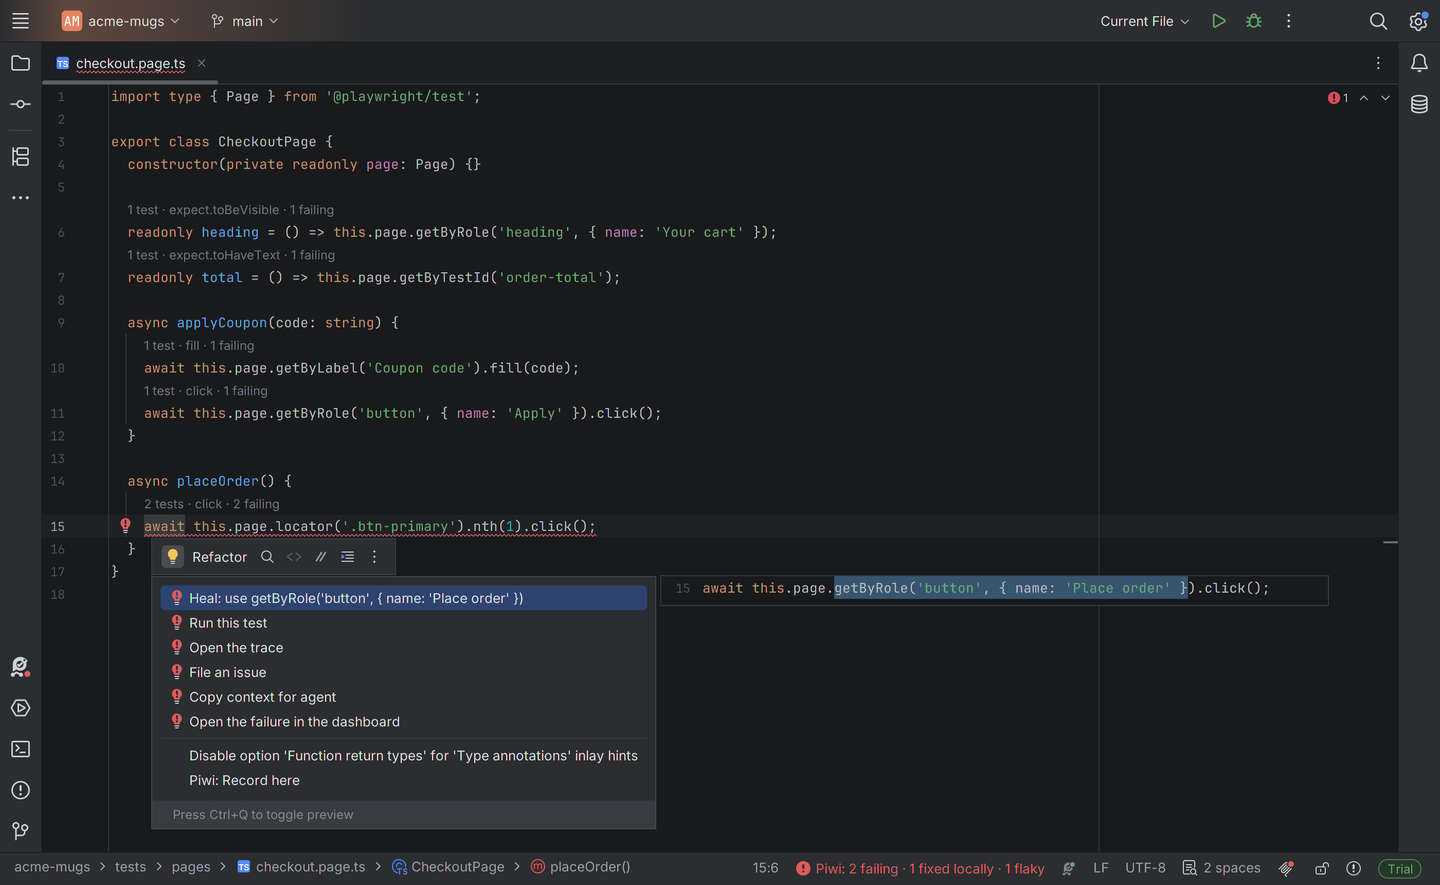
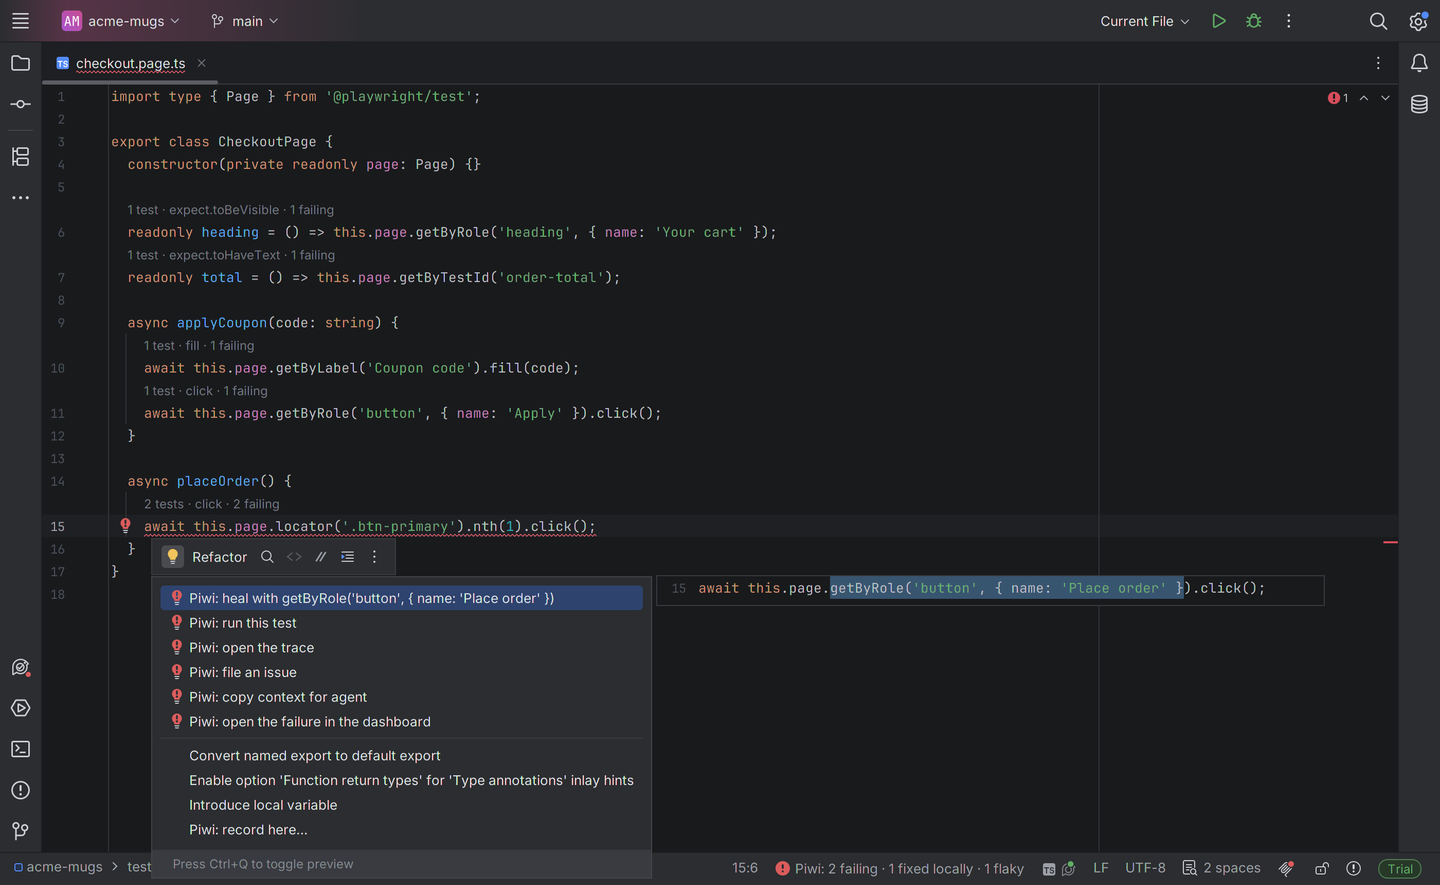
docs(docs): correct the generated reference pages against the code (#1428)
- Registry descriptions corrected against the code: PIWI_RETENTION_REPORT_DAYS, PIWI_AUTO_MARKERS (and the timeline markers page), PIWI_TEST_LOGS_DISABLED, the ingest limits' relation to the AI limits, PIWI_SITE_URL, PIWI_IMPORT_MAX_BYTES, triage_gap, Bitbucket Cloud's source control, Import past runs, maxStreamBufferBytes.
- "Reports page" reads "Quality reports page" in the schedule copy, the API reference and the docs.
- jetbrains-heal.png shows the quick fixes' current names; the JetBrains screenshot script keeps the downloaded IDE's Node services CommonJS.

Closes #1420.

Claude-Session: https://claude.ai/code/session_01ADXAbfaBY74DfSZAxSi1dN

diff --git a/apps/application/shared/piwi-env-vars.ts b/apps/application/shared/piwi-env-vars.ts
@@ -222,7 +222,7 @@ export const PIWI_ENV_CATEGORIES: Record<PiwiEnvVarCategory, PiwiEnvVarCategoryM
     title: 'Ingest limits',
     order: 9,
     intro:
-      'Caps applied to per-execution payloads (console output, steps, ARIA snapshots, error text, source snippets) before they are stored. They bound database growth against verbose or hostile submitters; values above each limit are truncated with a visible marker. Distinct from the `PIWI_AI_MAX_*` limits, which bound what enters an AI diagnosis prompt — the storage defaults sit at or above the AI maxima so the AI limits stay the binding constraint for prompts. Environment-only (no settings UI).',
+      'Caps applied to per-execution payloads (console output, steps, ARIA snapshots, error text, source snippets) before they are stored. They bound database growth against verbose or hostile submitters; values above each limit are truncated with a visible marker. Distinct from the `PIWI_AI_MAX_*` limits, which bound what enters an AI diagnosis prompt — the storage defaults sit at or above the AI defaults, so at their defaults the AI limits stay the binding constraint for prompts. Environment-only (no settings UI).',
   },
   export: {
     title: 'Offline export',
@@ -278,7 +278,7 @@ export const PIWI_ENV_VARS = {
     type: 'url',
     example: 'https://piwi.example.com',
     notes:
-      "When unset, links in emails point to http://localhost:3000 (on Fly.io, to https://<app>.fly.dev, from `FLY_APP_NAME`) and OAuth callback URLs are inferred from the request host — set it when running behind a reverse proxy. With authentication off, the dashboard answers only requests addressed to an IP address, `localhost`, a name under `.localhost` or the host of this URL: set it to the address you open the dashboard at when that is a name other than `localhost`, and list other names, a container's name included, in `PIWI_ALLOWED_HOSTS` (see [Disabling authentication](/operate/authentication#disabling-authentication)). A write from a page served over plain HTTP, whose browser sends no `Sec-Fetch-Site`, is then accepted only from the address the request names, the host and port of this URL or a name `PIWI_ALLOWED_HOSTS` lists. A reverse proxy in front must forward the `Host` header the browser sent (nginx `proxy_set_header Host $http_host;`, Apache `ProxyPreserveHost On`), since the host check reads that header alone.",
+      "When unset, links in emails point to http://localhost:3000 (on Fly.io, to `https://<app>.fly.dev`, from `FLY_APP_NAME`) and OAuth callback URLs are inferred from the request host — set it when running behind a reverse proxy. With authentication off, the dashboard answers only requests addressed to an IP address, `localhost`, a name under `.localhost` or the host of this URL: set it to the address you open the dashboard at when that is a name other than `localhost`, and list other names, a container's name included, in `PIWI_ALLOWED_HOSTS` (see [Disabling authentication](/operate/authentication#disabling-authentication)). A write from a page served over plain HTTP, whose browser sends no `Sec-Fetch-Site`, is then accepted only from the address the request names, the host and port of this URL or a name `PIWI_ALLOWED_HOSTS` lists. A reverse proxy in front must forward the `Host` header the browser sent (nginx `proxy_set_header Host $http_host;`, Apache `ProxyPreserveHost On`), since the host check reads that header alone.",
   },
   PIWI_ALLOWED_HOSTS: {
     description:
@@ -388,7 +388,7 @@ export const PIWI_ENV_VARS = {
   },
   PIWI_RETENTION_REPORT_DAYS: {
     description:
-      'Days to keep report snapshots (the stored quality reports on the Reports page) before the nightly sweep prunes them (default 365; 0 keeps them forever).',
+      'Days to keep report snapshots (the stored quality reports on the Quality reports page) before the nightly sweep prunes them (default 365; 0 keeps them forever).',
     category: 'database',
     type: 'number',
     default: '365',
@@ -1079,7 +1079,7 @@ export const PIWI_ENV_VARS = {
   },
   PIWI_IMPORT_MAX_BYTES: {
     description:
-      'Max size of a single multipart upload, in bytes: one report or the files of one test, which the reporter sends in a request of their own, or a blob-report import. Lower it to match a reverse proxy that rejects large bodies, so the import page rejects an oversized archive before uploading it. An import reads its archive whole, so it takes archives under 2 GiB whatever this allows.',
+      'Max size of a single multipart upload, in bytes: one report or the files of one test, which the reporter sends in a request of their own, or an imported blob report or trace. Lower it to match a reverse proxy that rejects large bodies, so the import page rejects an oversized archive before uploading it. An import reads its archive whole, so it takes archives under 2 GiB whatever this allows.',
     category: 'ingest',
     type: 'number',
     default: String(500 * 1024 * 1024),
@@ -1239,7 +1239,7 @@ export const PIWI_ENV_VARS = {
   },
   PIWI_AUTO_MARKERS: {
     description:
-      'Automatically create a timeline marker when a run’s Playwright or reporter version differs from the previous run in the same environment, and when a run is flagged as an environment incident (default: enabled). Set to false to disable.',
+      'Automatically create a timeline marker when a run’s Playwright or reporter version differs from the previous run in the same environment, when its runner, browser or a server under test differs from the previous run on the same branch and environment, and when a run is flagged as an environment incident (default: enabled). Set to false to disable.',
     category: 'markers',
     type: 'boolean',
     default: 'true',
@@ -1248,13 +1248,12 @@ export const PIWI_ENV_VARS = {
   },
 
   PIWI_TEST_LOGS_DISABLED: {
-    description:
-      'Disable X-Piwi-Logs response header emission (default: auto-disabled in production, enabled in development).',
+    description: 'Disable X-Piwi-Logs response header emission (default: on in development and test, off elsewhere).',
     category: 'testing',
     type: 'boolean',
     docs: 'guide/backend-logs',
     notes:
-      'Set on the instrumented backend (Nitro or ASP.NET Core). Unset: capture is on in development and off in production builds; `true` forces it off everywhere, `false` forces it on even in production. Overrides every other environment setting.',
+      'Set on the instrumented backend (Nitro or ASP.NET Core). Unset: capture is on in development and test (Nitro: `NODE_ENV` is `development` or `test`; ASP.NET Core: the environments the app or `PIWI_TEST_LOGS_ENVIRONMENTS` names, Development and Test by default); `true` forces it off everywhere, `false` forces it on in any environment. Overrides every other environment setting.',
   },
   PIWI_TEST_LOGS_ENVIRONMENTS: {
     description:

diff --git a/apps/application/shared/piwi-ecosystem.ts b/apps/application/shared/piwi-ecosystem.ts
@@ -331,7 +331,7 @@ export const SETUP_DECISIONS: SetupDecision[] = [
       { option: 'No token', when: 'History, clusters, flaky scores and locator healing are unaffected.' },
       {
         option: 'A GitHub, GitLab or Bitbucket token',
-        when: 'Set instance-wide (Settings → Source control) or per project. Read access opens private repositories to the diff in AI diagnosis, What changed, uncovered changes and CODEOWNERS ownership. Write access adds pull-request comments and commit statuses (GitHub, GitLab) and auto-heal pull requests (GitHub, GitLab, Bitbucket Cloud), both with `PIWI_SITE_URL` set, and CI re-runs from the dashboard.',
+        when: 'Set instance-wide (Settings → Source control) or per project. Read access opens private repositories to the diff in AI diagnosis, What changed, uncovered changes and CODEOWNERS ownership. Write access adds pull-request comments, commit statuses and auto-heal pull requests (GitHub, GitLab, Bitbucket Cloud), with `PIWI_SITE_URL` set, and CI re-runs from the dashboard.',
       },
     ],
     doc: 'guide/source-control',

diff --git a/apps/application/app/components/reports/SchedulePreview.vue b/apps/application/app/components/reports/SchedulePreview.vue
@@ -4,7 +4,7 @@
  * over its last complete cadence (the period *Run now* reports on), without
  * saving anything. *Email* is the message exactly as the server renders it,
  * the chart drawn from the same marks; *Full report* is the report every
- * delivery is kept as on the Reports page, where *Open in Piwi* leads.
+ * delivery is kept as on the Quality reports page, where *Open in Piwi* leads.
  */
 import { chartMarksSvg } from '#shared/reports/chart';
 import { makeFormatter } from '#shared/reports/format';
@@ -142,7 +142,7 @@ const deliveries = computed(() => {
             >: {{ d.what }}.
           </li>
         </ul>
-        <p class="text-xs text-muted">Each report is also kept on the Reports page, as the full report.</p>
+        <p class="text-xs text-muted">Each report is also kept on the Quality reports page, as the full report.</p>
         <p v-if="includeNarrative" class="text-xs text-muted">
           The AI narrative is written when each report is sent; the preview keeps the rule-based verdict in its place.
         </p>

diff --git a/apps/application/tests/quality-report-schedules.spec.ts b/apps/application/tests/quality-report-schedules.spec.ts
@@ -2,7 +2,7 @@
  * Report schedules and report snapshots:
  *   /api/reports/schedules    — create, validate, mute, run now, delete, preview
  *   /api/reports/snapshots    — list, read, download a snapshot
- *   /reports and /reports/:id — the Reports page, Run now, the snapshot page
+ *   /reports and /reports/:id — the Quality reports page, Run now, the snapshot page
  *   Schedule… on /analytics   — the schedule form, prefilled with the scope, and its preview
  *
  * The email itself is checked by email-notifications.spec.ts; here the
@@ -176,7 +176,7 @@ test.describe('Report schedule API', () => {
   });
 });
 
-test.describe('The Reports page', () => {
+test.describe('The Quality reports page', () => {
   test('lists the schedule, runs it, and opens the snapshot', async ({ page, request }) => {
     // A name of its own: a snapshot outlives its deleted schedule, so a rerun on the same server would find the last one.
     const name = `Report page schedule ${Date.now()}`;

diff --git a/apps/application/app/components/reports/ScheduleForm.vue b/apps/application/app/components/reports/ScheduleForm.vue
@@ -5,7 +5,7 @@
  * opened on (the analytics scope, or one project); the period comes from the
  * cadence. *Preview* shows the report as it would be sent now, before saving.
  * Opened from *Schedule…* on the analytics and project pages and from the
- * Reports page.
+ * Quality reports page.
  */
 import { offeredDashboards, type BuiltinDashboardKey } from '#shared/analytics/dashboards';
 import { WEEKDAY_NAMES, type ReportCadence, type ScheduleComparison } from '#shared/reports/schedule';
@@ -361,7 +361,7 @@ async function save() {
       :description="
         previewing
           ? 'What its recipients would get if it were sent now.'
-          : 'A quality report delivered on a schedule, each one kept as a snapshot on the Reports page.'
+          : 'A quality report delivered on a schedule, each one kept as a snapshot on the Quality reports page.'
       "
       :ui="{ content: previewing ? 'sm:max-w-4xl' : 'sm:max-w-xl' }"
     >

diff --git a/apps/application/shared/help-content.ts b/apps/application/shared/help-content.ts
@@ -441,7 +441,7 @@ export const HELP_TOPICS = {
   },
   'project.timeline': {
     title: 'Timeline markers',
-    text: 'Dated events — deploys, config changes, infra migrations, incidents — overlaid as vertical lines on the trend charts, so you can tell whether a change moved your results or performance. Markers can be scoped to an environment; some are detected automatically when tooling versions change between runs.',
+    text: 'Dated events — deploys, config changes, infra migrations, incidents — overlaid as vertical lines on the trend charts, so you can tell whether a change moved your results or performance. Markers can be scoped to an environment; some are added automatically when the Playwright or reporter version, the runner, a browser or a server under test changes between runs, and when a run is flagged as an environment incident.',
     doc: 'features/timeline-markers',
     envVars: ['PIWI_AUTO_MARKERS'],
   },

diff --git a/apps/application/app/components/reports/ScheduleList.vue b/apps/application/app/components/reports/ScheduleList.vue
@@ -1,6 +1,6 @@
 <script setup lang="ts">
 /**
- * The report schedules on the Reports page: when each fires, whose it is, who
+ * The report schedules on the Quality reports page: when each fires, whose it is, who
  * receives it through which channel, and its actions (run now, edit, mute,
  * pause, delete). A card list, so it reads the same at 375 px as on a wide screen.
  */
@@ -73,7 +73,7 @@ function patch(s: ReportScheduleView, body: Record<string, unknown>, done: strin
 }
 
 function remove(s: ReportScheduleView) {
-  if (!window.confirm(`Delete the schedule “${s.name}”? Its snapshots stay on the Reports page.`)) return;
+  if (!window.confirm(`Delete the schedule “${s.name}”? Its snapshots stay on the Quality reports page.`)) return;
   return act(s, () => $fetch(`/api/reports/schedules/${s.id}`, { method: 'DELETE' }), 'Report schedule deleted');
 }
 

diff --git a/apps/application/server/api/dashboards/[id].delete.ts b/apps/application/server/api/dashboards/[id].delete.ts
@@ -8,7 +8,7 @@ defineRouteMeta({
     tags: ['Analytics'],
     summary: 'Delete a saved dashboard',
     description:
-      'Deletes a saved dashboard. The report schedules rendering it are deactivated and returned in `deactivatedSchedules`; the Reports page shows them inactive until their owner picks another dashboard. Its owner or an administrator.',
+      'Deletes a saved dashboard. The report schedules rendering it are deactivated and returned in `deactivatedSchedules`; the Quality reports page shows them inactive until their owner picks another dashboard. Its owner or an administrator.',
     parameters: [{ name: 'id', in: 'path', required: true, schema: { type: 'string' } }],
     'x-required-permission': 'signed-in',
   },

diff --git a/packages/reporter/src/public/options.ts b/packages/reporter/src/public/options.ts
@@ -375,8 +375,8 @@ export interface PiwiDashboardOptions {
    * events are shed first — live step progress, then per-test `begin` markers,
    * and only as a last resort test results (the final counts and the end-of-run
    * batch submit stay complete regardless). Defaults to `104857600` (100 MB).
-   * Set to `0` to disable the cap (unbounded, the pre-`0.28` behavior). Can also
-   * be set with `PIWI_MAX_STREAM_BUFFER_BYTES`.
+   * Set to `0` to disable the cap (unbounded). Can also be set with
+   * `PIWI_MAX_STREAM_BUFFER_BYTES`.
    */
   maxStreamBufferBytes?: number;
 

diff --git a/apps/application/shared/ingest-limits.ts b/apps/application/shared/ingest-limits.ts
@@ -5,7 +5,8 @@
  * failure-cluster sample error — a different concern from the AI context
  * limits (`PIWI_AI_MAX_*`, `shared/ai-context-limits.ts`), which bound what
  * enters a diagnosis prompt. Storage defaults sit at or above the AI-limit
- * maxima so the AI limits remain the binding constraint for prompts.
+ * defaults, so at their defaults the AI limits remain the binding constraint
+ * for prompts.
  *
  * Overridable per deployment via `PIWI_INGEST_MAX_*` environment variables
  * only (no settings UI — see `server/utils/ingest-limits.ts`).

diff --git a/apps/application/shared/mcp-tools.ts b/apps/application/shared/mcp-tools.ts
@@ -1284,7 +1284,7 @@ export const MCP_TOOL_DEFS = [
     capability: 'test-map',
     permission: 'triage:write',
     description: md(
-      'Give a verdict on a scenario gap, as the gap inbox does, and return its new status.',
+      'Give a verdict on a scenario gap, as the Gaps view of a project’s Coverage tab does, and return its new status.',
       'Pass the gap id from `list_scenario_gaps`. A verdict counts for or against the detector that raised the gap. `verb` is:',
       [
         '`accept`: queue its draft, optionally for `assignedTo`',

diff --git a/apps/application/shared/piwi-features.ts b/apps/application/shared/piwi-features.ts
@@ -145,7 +145,8 @@ export const PIWI_FEATURE_GROUPS: FeatureGroup[] = [
       },
       {
         title: 'Import past runs',
-        summary: 'Backfill history from existing Playwright JSON/blob reports so trends start with a past, not empty.',
+        summary:
+          'Backfill history from existing Playwright blob reports or trace files so trends start with a past, not empty.',
         needs: ['admin'],
         where: 'project page → Import; ingest API',
         doc: 'guide/importing-runs',
